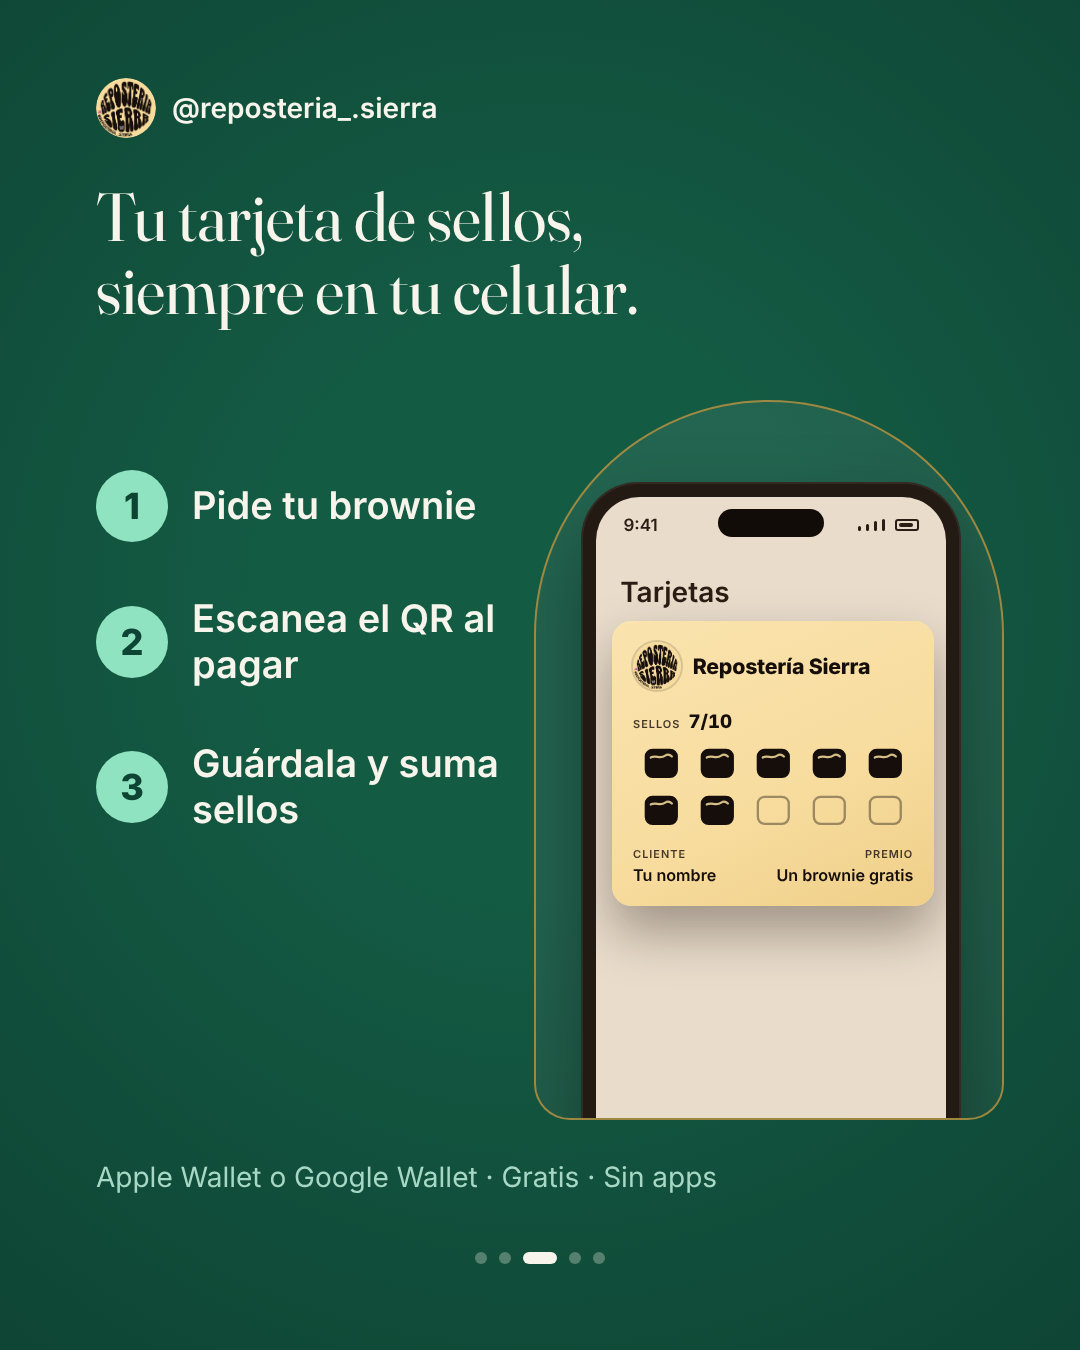
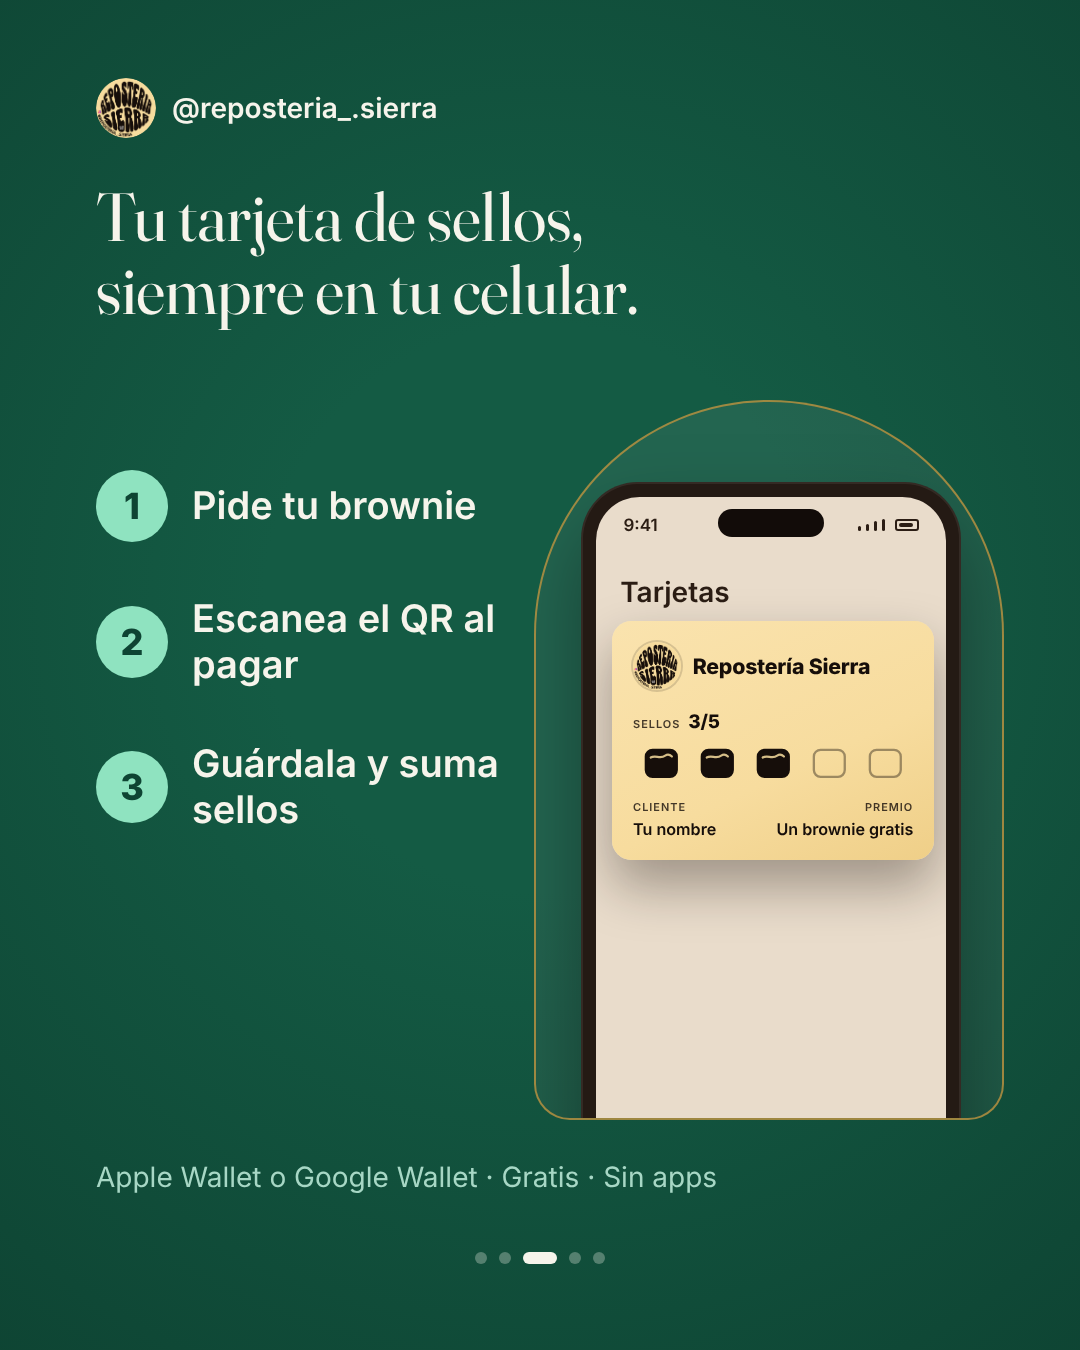
Post Repostería Sierra: tarjeta de 5 sellos (premio al quinto sello)
Claude-Session: https://claude.ai/code/session_01NppBQeaMzGkiMEcfsUkZi3

Changed region(s): [[0.55, 0.5289, 0.8861, 0.7156], [0.6417, 0.5289, 0.6722, 0.56]]

diff --git a/post-reposteria-sierra/src/Slides.tsx b/post-reposteria-sierra/src/Slides.tsx
@@ -100,8 +100,8 @@ export const Table: React.FC = () => (
     <TopBar dark />
     <div style={{ position: "absolute", left: M - 36, right: M - 36, bottom: 150, borderRadius: 40, background: palette.light, padding: "52px 56px 56px", boxShadow: "0 40px 90px rgba(0,0,0,0.4)" }}>
       <div style={{ display: "flex", alignItems: "center", gap: 18, marginBottom: 22 }}>
-        {Array.from({ length: 10 }).map((_, i) => (
-          <svg key={i} width={46} height={46} viewBox="0 0 40 40">
+        {Array.from({ length: business.total }).map((_, i) => (
+          <svg key={i} width={64} height={64} viewBox="0 0 40 40">
             <rect x={4} y={6} width={32} height={28} rx={7} fill={palette.cocoa} />
             <path d="M9 14 C14 11 19 16 24 12 C27 10 30 12 31 13" fill="none" stroke={palette.butter} strokeWidth={2.2} strokeLinecap="round" />
           </svg>

diff --git a/post-reposteria-sierra/src/post.ts b/post-reposteria-sierra/src/post.ts
@@ -9,8 +9,8 @@ export const business = {
   /** Tarjeta de ejemplo (confirma el premio real con el negocio antes de publicar). */
   customer: "Tu nombre",
   reward: "Un brownie gratis",
-  stamps: 7,
-  total: 10,
+  stamps: 3,
+  total: 5,
 };
 
 export const slides = {
@@ -29,7 +29,7 @@ export const slides = {
     note: "Apple Wallet o Google Wallet · Gratis · Sin apps",
   },
   table: {
-    title: "Al décimo sello, el brownie va por nuestra cuenta.",
+    title: "Al quinto sello, el brownie va por nuestra cuenta.",
     text: "Sin cartón que se pierda: tus sellos quedan guardados.",
   },
   cta: {
